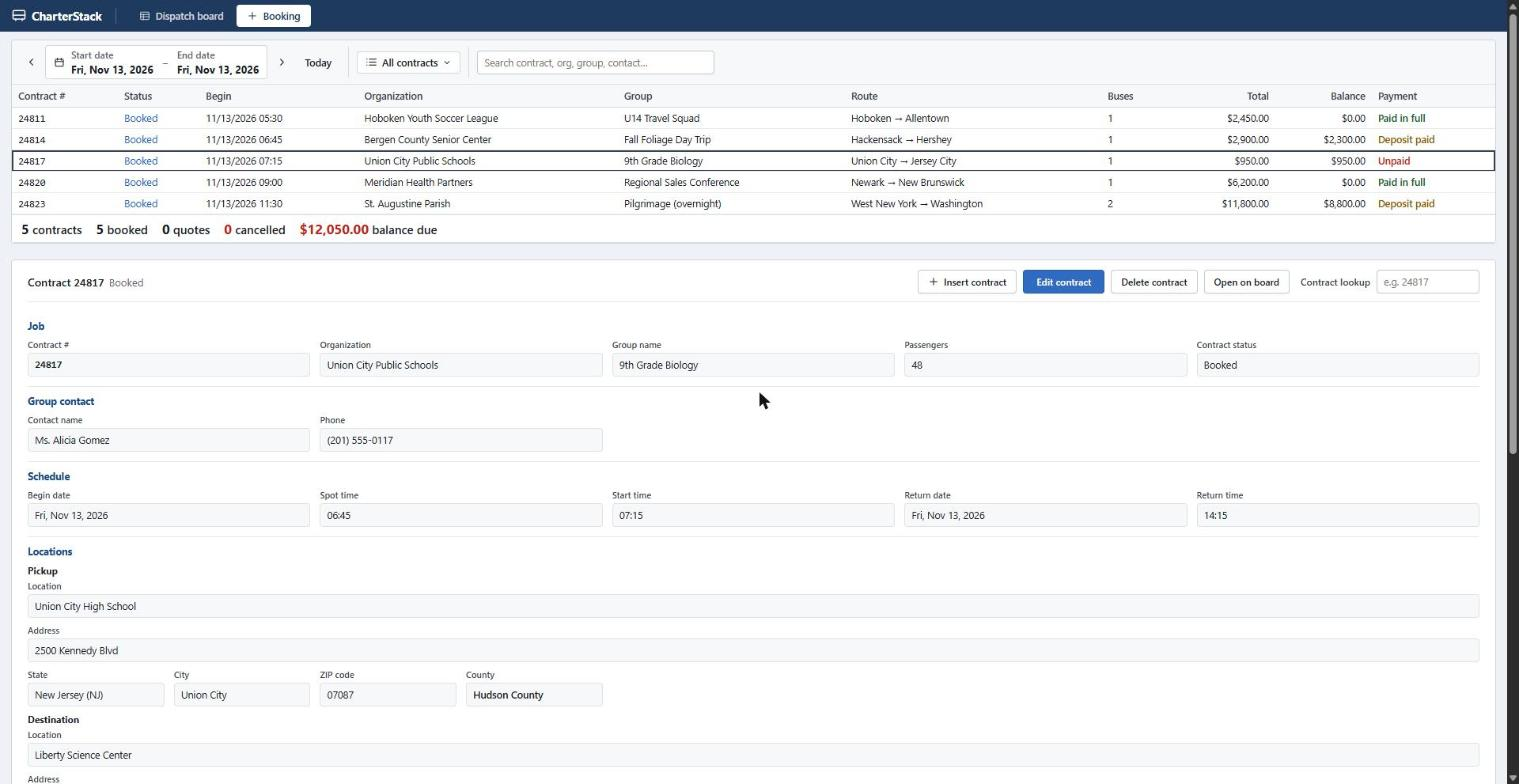
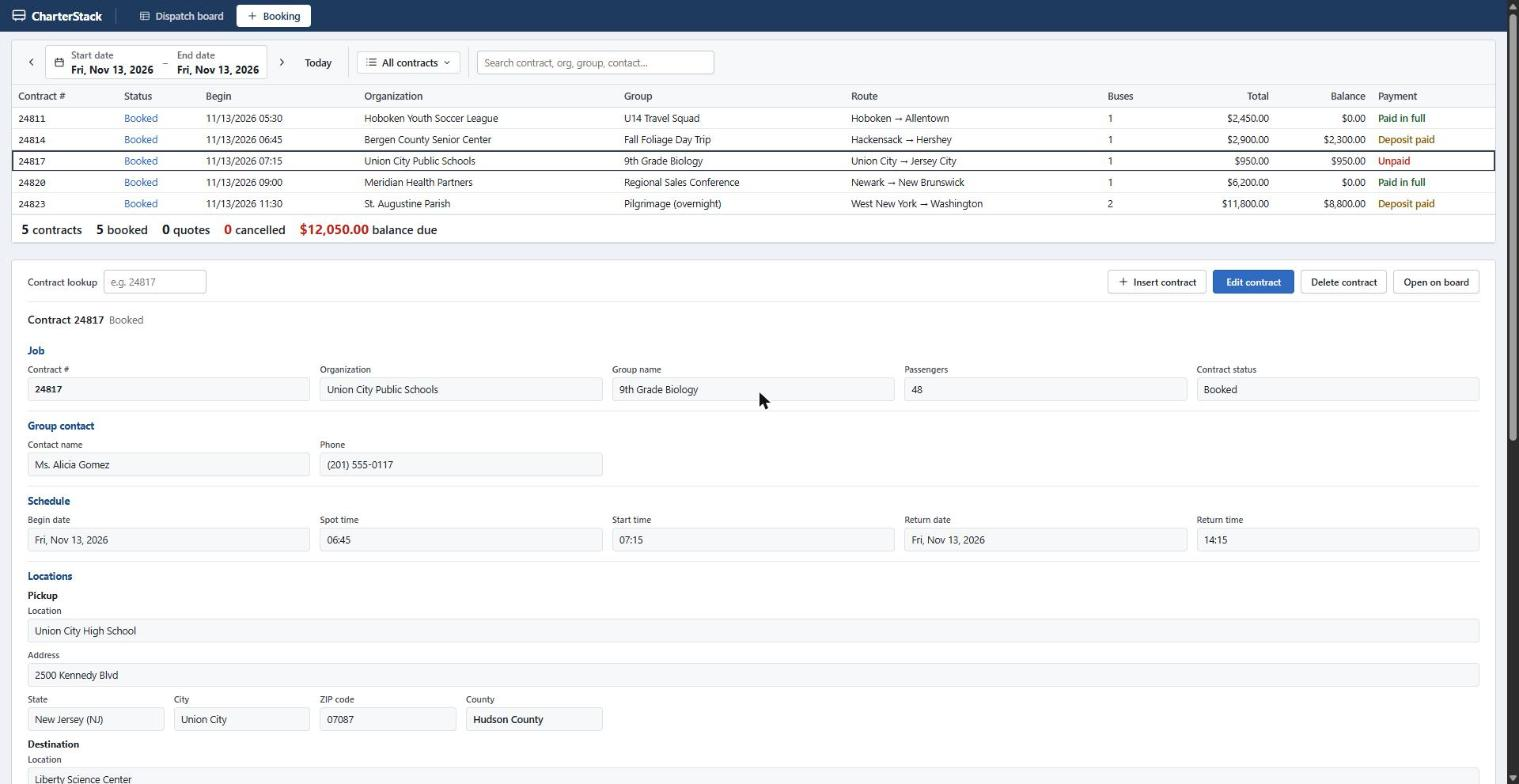
Put contract lookup left in the header and the title above Job
The contract view's header row now has Contract lookup on the left and the
buttons on the right; the "Contract 24817 Booked" title moves below the
line, directly above the Job section. Fix the Dispatch notes box sitting
beside its floated section title instead of under it. UI guide updated.

diff --git a/frontend/src/booking/BookingTab.test.tsx b/frontend/src/booking/BookingTab.test.tsx
@@ -170,15 +170,19 @@ test('deleting the last contract shows the pick-a-contract message', async () =>
   expect(await screen.findByText(/Pick a contract from the list/)).toBeInTheDocument()
 })
 
-test('search sits in the toolbar and contract lookup after Open on board', async () => {
+test('search in the toolbar; lookup left of the buttons; title under the header', async () => {
   renderTab()
-  await heading(24811)
+  const title = await heading(24811)
   const toolbar = screen.getByRole('region', { name: 'Toolbar' })
   expect(within(toolbar).getByRole('searchbox', { name: 'Search contracts' })).toBeInTheDocument()
   expect(within(screen.getByRole('status')).queryByLabelText('Contract lookup')).toBeNull()
-  const openOnBoard = screen.getByRole('button', { name: 'Open on board' })
+
   const lookup = screen.getByLabelText('Contract lookup')
-  expect(
-    openOnBoard.compareDocumentPosition(lookup) & Node.DOCUMENT_POSITION_FOLLOWING,
-  ).toBeTruthy()
+  const insert = screen.getByRole('button', { name: 'Insert contract' })
+  const openOnBoard = screen.getByRole('button', { name: 'Open on board' })
+  const follows = (a: Node, b: Node) =>
+    Boolean(a.compareDocumentPosition(b) & Node.DOCUMENT_POSITION_FOLLOWING)
+  expect(follows(lookup, insert)).toBe(true) // lookup first in the header row
+  expect(follows(openOnBoard, title)).toBe(true) // title below the header row
+  expect(follows(title, screen.getByText('Job'))).toBe(true) // and above Job
 })

diff --git a/frontend/src/booking/ContractView.tsx b/frontend/src/booking/ContractView.tsx
@@ -53,12 +53,7 @@ export default function ContractView(props: Props) {
   return (
     <>
       <div className="ct-head">
-        <h2>
-          Contract <span className="mono">{c.number}</span>
-          <span className="cst" data-cs={c.status}>
-            {STATUS_LABEL[c.status]}
-          </span>
-        </h2>
+        {props.lookup}
         <div className="ct-actions">
           <button type="button" className="btn2" onClick={props.onInsert}>
             <Icon name="plus" />
@@ -82,9 +77,15 @@ export default function ContractView(props: Props) {
           >
             Open on board
           </button>
-          {props.lookup}
         </div>
       </div>
+
+      <h2 className="ct-title">
+        Contract <span className="mono">{c.number}</span>
+        <span className="cst" data-cs={c.status}>
+          {STATUS_LABEL[c.status]}
+        </span>
+      </h2>
 
       <fieldset className="fs">
         <legend className="lg">Job</legend>

diff --git a/frontend/src/booking/booking.css b/frontend/src/booking/booking.css
@@ -4,8 +4,22 @@
   width: 300px;
   max-width: 100%;
 }
-.ct-actions .lookup {
+.ct-title {
+  margin: 12px 0 0;
+  font-size: 14px;
+  font-weight: 600;
+}
+.ct-title .mono {
+  font-weight: 700;
+}
+.ct-title .cst {
+  font-size: 13px;
+  font-weight: 400;
+  color: var(--text-muted);
   margin-left: 6px;
+}
+.ct-title .cst[data-cs='cancelled'] {
+  color: var(--red);
 }
 .lookup label {
   font-size: 12px;
@@ -158,7 +172,8 @@
   padding: 10px 0 0;
   min-width: 0;
 }
-.ct-head + .fs {
+.ct-head + .fs,
+.ct-title + .fs {
   border-top: 0;
 }
 .lg {
@@ -182,7 +197,9 @@
 .full {
   grid-column: 1 / -1;
 }
-.fs > .fld {
+/* Anything placed straight in a fieldset starts below the floated section title. */
+.fs > .fld,
+.fs > .ro {
   clear: both;
 }
 .fld > label,

diff --git a/docs/UI_GUIDE.md b/docs/UI_GUIDE.md
@@ -156,7 +156,7 @@ See `design/screenshots/02-booking-contract-view.png` and `03-booking-contract-f
 3. **Status bar under the table:** **12** contracts · **10** booked · **1** quotes · **1** cancelled · **$18,600.00** balance due (cancelled and balance numbers in red).
 
 ### Contract surface — view mode
-Header row: "Contract **24817**" (number in monospace bold) with the status as small grey text beside it (red when cancelled). Buttons on the right: **+ Insert contract** (secondary), **Edit contract** (primary), **Delete contract** (three-click, rule R10), **Open on board** (switches tab and selects the contract's first unit), then the **Contract lookup** label with a 130px input (placeholder "e.g. 24817"); "No contract 99999 found." appears beside it in orange when there is no match.
+Header row: on the left the **Contract lookup** label with a 130px input (placeholder "e.g. 24817"); "No contract 99999 found." appears beside it in orange when there is no match. Buttons on the right: **+ Insert contract** (secondary), **Edit contract** (primary), **Delete contract** (three-click, rule R10), **Open on board** (switches tab and selects the contract's first unit). A thin line under the header row, then the title "Contract **24817**" (number in monospace bold) with the status as small grey text beside it (red when cancelled), directly above the Job section.
 
 Below, read-only sections. Each section has a small blue title, and each field is a small grey label above a light grey read-only box. Five fields per row.
 
@@ -170,7 +170,7 @@ Below, read-only sections. Each section has a small blue title, and each field i
 | Vehicle & driver | Number of buses, Terminal, Size requirement, Requested driver, then Info (full width) |
 | Pricing | Total price, Deposit required, Total paid (incl. deposit), Balance due, Payment status |
 | Dispatch | Single-bus contracts: Driver, Driver phone, Report time, Actual report, Bus, Confirmation. Multi-bus: a one-line note "This contract has 2 buses (24823-1 to 24823-2 on the dispatch board). Driver, bus and report details are set per bus there." |
-| Dispatch notes | One box (no dash when empty) |
+| Dispatch notes | One box under the section title (no dash when empty) |
 
 A contract is always open. On first visit it is the first contract in the list (or, if the dates and filter show none, the lowest-numbered contract in the sandbox). Deleting the open contract opens the next contract by number, or the previous one if it was the highest. Only when the sandbox has no contracts at all: "Pick a contract from the list, or look one up, to see it here." and an Insert contract button.
 
